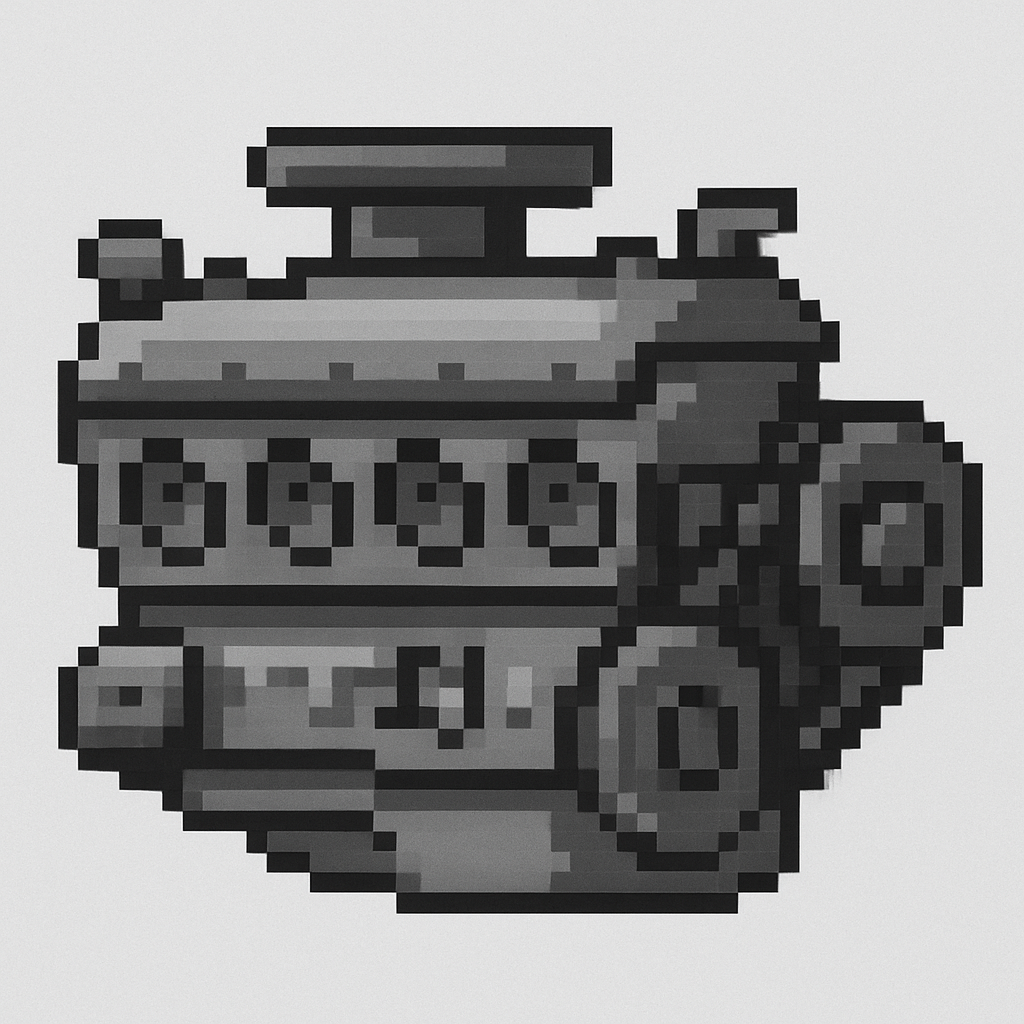
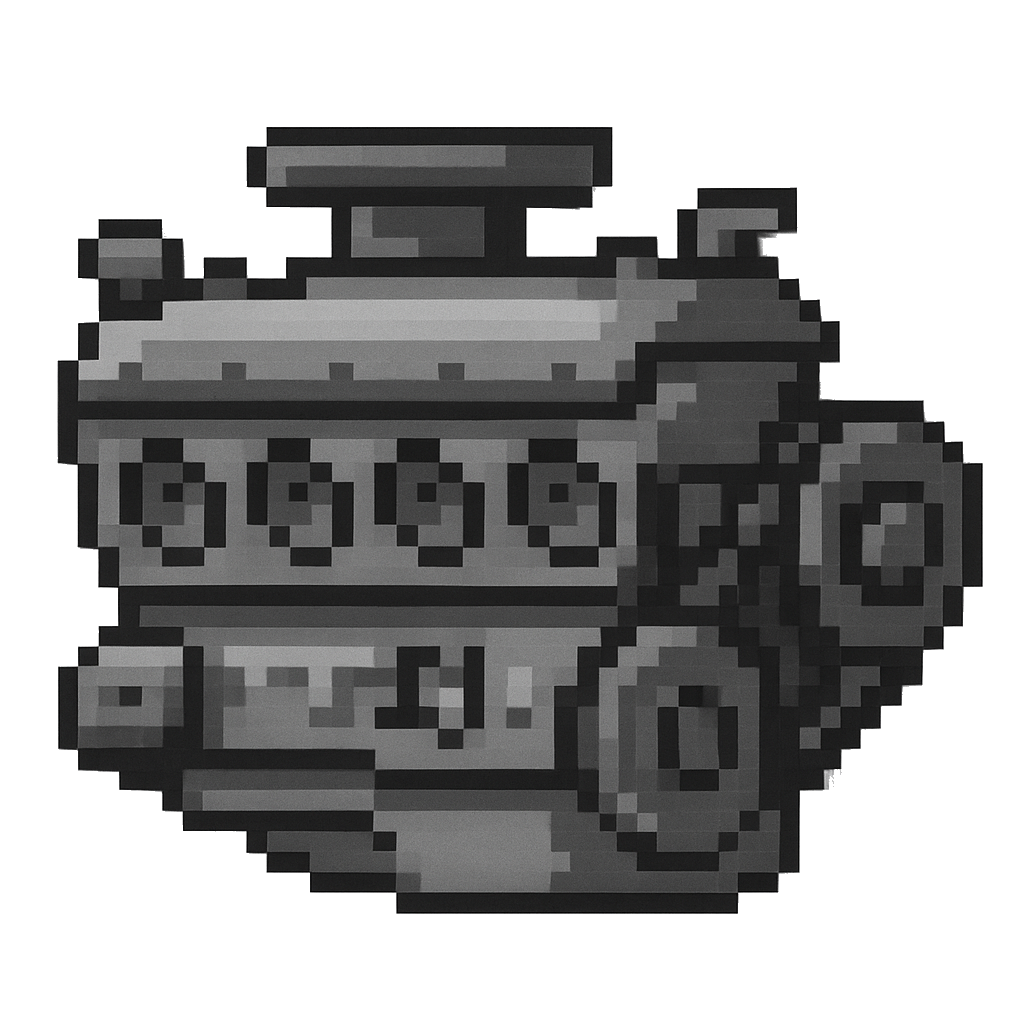
feat: added apparatus panel

diff --git a/core/src/com/titaniumPolitics/game/ui/actions/RepairUI.kt b/core/src/com/titaniumPolitics/game/ui/actions/RepairUI.kt
@@ -39,19 +39,8 @@ class RepairUI(val gameState: GameState, actionCallback: (GameAction) -> Unit) :
     var action =
         Repair(sbjChar.name, sbjChar.place.name, gameState.places[tgtPlace]!!.apparatuses.first().ID, gameState)
 
-    private var agendaSelectBox: Table
-    private val noSuitableAppLabel = table {
-        label("No suitable apparatus to repair.", "docTitle") {
-            it.fill()
-            setAlignment(Align.center)
-            setFontScale(0.5f)
-        }
-        row()
-        label("Make sure there is an apparatus that is damaged and you have the information of it.", "description") {
-            it.fill()
-            setAlignment(Align.center)
-            setFontScale(0.3f)
-        }
+    private val agendaSelectBox = ApparatusSelectUI(gameState) {
+        selectedApp = it
     }
     val apparatusDetailTable = scene2d.table {
 
@@ -91,19 +80,9 @@ class RepairUI(val gameState: GameState, actionCallback: (GameAction) -> Unit) :
 
 
     }
-    val sp: ScrollPane
     val st = scene2d.stack {
         table {
-            stack {
-                it.size(900f, 400f)
-                this@RepairUI.sp = scrollPane {
-                    setScrollingDisabled(false, true)
-                    this@RepairUI.agendaSelectBox =
-
-                        buttonGroup(1, 1)
-                }
-                add(this@RepairUI.noSuitableAppLabel)
-            }
+            add(this@RepairUI.agendaSelectBox)
 
             row()
             //Fill in agenda details.
@@ -140,57 +119,7 @@ class RepairUI(val gameState: GameState, actionCallback: (GameAction) -> Unit) :
 
 
     fun refresh(gameState: GameState) {
-        agendaSelectBox.clear()
-        refreshAvailableApparatusList(gameState)
-    }
-
-    fun refreshAvailableApparatusList(gameState: GameState) {
-        val tgtPlaceObj = gameState.places[tgtPlace]!!
-        tgtPlaceObj.apparatuses.forEach { app ->
-            gameState.informations.values.firstOrNull {
-                it.type == InformationType.APPARATUS
-                it.tgtApparatusID == app.ID && gameState.playerName in it.knownTo
-            }?.also { appInfo ->
-                val t = scene2d.button("check") {
-                    //TODO:Agenda Tooltip addListener(ActionTooltipUI(tobj))
-                    container {
-                        it.size(400f)
-                        it.fill()
-                        it.align(Align.center)
-                        image("CogGrunge") {
-                            try {
-                                drawable = TextureRegionDrawable(
-                                    CapsuleStage.Companion.instance.assetManager.get( //TODO: Temporary solution for portrait image loading. PortraitUI does not have a stage.
-                                        ReadOnly.appJson[app.name]!!.jsonObject["image"]!!.jsonPrimitive.content,
-                                        Texture::class.java
-                                    )!!
-                                )
-                            } catch (e: Exception) {
-                                Logger.write("Portrait Image Error: ${app.name}", Logger.LogLevel.INFO)
-                            }
-
-                        }
-                    }
-                    row()
-                    add(InformationSourceUI(appInfo)).fill()
-                    addListener(object : ChangeListener() {
-                        override fun changed(event: ChangeEvent?, actor: Actor?) {
-                            this@RepairUI.selectedApp = appInfo
-                        }
-                    })
-
-                }
-                agendaSelectBox.add(t).size(400f).fill()
-            }
-
-        }
-        if (agendaSelectBox.children.size == 0) {
-            sp.isVisible = false
-            noSuitableAppLabel.isVisible = true
-        } else {
-            sp.isVisible = true
-            noSuitableAppLabel.isVisible = false
-        }
+        agendaSelectBox.refresh(gameState.player.place.name)
     }
 
 

diff --git a/core/src/com/titaniumPolitics/game/ui/ApparatusPanelUI.kt b/core/src/com/titaniumPolitics/game/ui/ApparatusPanelUI.kt
@@ -1,0 +1,94 @@
+package com.titaniumPolitics.game.ui
+
+import com.badlogic.gdx.graphics.Color
+import com.badlogic.gdx.graphics.Texture
+import com.badlogic.gdx.scenes.scene2d.Group
+import com.badlogic.gdx.scenes.scene2d.InputEvent
+import com.badlogic.gdx.scenes.scene2d.actions.Actions
+import com.badlogic.gdx.scenes.scene2d.ui.Button
+import com.badlogic.gdx.scenes.scene2d.ui.Table
+import com.badlogic.gdx.scenes.scene2d.utils.ClickListener
+import com.badlogic.gdx.scenes.scene2d.utils.TextureRegionDrawable
+import com.titaniumPolitics.game.core.Information
+import com.titaniumPolitics.game.core.ReadOnly
+import com.titaniumPolitics.game.debugTools.Logger
+import com.titaniumPolitics.game.ui.widget.InformationSourceUI
+import com.titaniumPolitics.game.ui.widget.MeterUI
+import kotlinx.serialization.json.jsonObject
+import kotlinx.serialization.json.jsonPrimitive
+import ktx.scene2d.*
+
+class ApparatusPanelUI(var info: Information) : Button(Scene2DSkin.defaultSkin), KTable {
+
+    init {
+        stack {
+            it.grow()
+            image("GradientBottom") {
+                color = Color.BLACK
+            }
+            image("BackgroundNoiseHD")
+
+
+            table {
+                image("CogGrunge") {
+                    it.size(150f).fill()
+                    try {
+                        drawable = TextureRegionDrawable(
+                            CapsuleStage.Companion.instance.assetManager.get( //TODO: Temporary solution for portrait image loading. PortraitUI does not have a stage.
+                                ReadOnly.appJson[this@ApparatusPanelUI.info.tgtApparatusName!!]!!.jsonObject["image"]!!.jsonPrimitive.content,
+                                Texture::class.java
+                            )!!
+                        )
+                    } catch (e: Exception) {
+                        Logger.write(
+                            "Portrait Image Error: ${this@ApparatusPanelUI.info.tgtApparatusName!!}",
+                            Logger.LogLevel.INFO
+                        )
+                    }
+                }
+                table {
+                    it.growX().fillY()
+                    label(ReadOnly.appProp(this@ApparatusPanelUI.info.tgtApparatusName!!), "docTitle") {
+                        setFontScale(0.4f)
+                    }
+                    row()
+                    container(MeterUI().apply {
+                        setValue((this@ApparatusPanelUI.info.variables["durability"]!! / 100.0).toFloat())
+                        color = Color.GREEN
+                    }) {
+                        it.growX().fillY()
+                        padTop(5f)
+                        size(200f, 20f)
+                        fill()
+                    }
+                    row()
+                    container(MeterUI().apply {
+                        setValue((this@ApparatusPanelUI.info.variables["efficiency"]!! / 100.0).toFloat())
+                        color = Color.BLUE
+                    }) {
+                        it.growX().fillY()
+                        padTop(5f)
+                        size(200f, 20f)
+                        fill()
+                    }
+                    row()
+                    label(
+                        "Danger: %.1f %%/100HR".format(this@ApparatusPanelUI.info.variables["danger"]!! * 3600 * 100 * 100/*percent*/),
+                        "docTitle"
+                    ) {
+                        it.growX().fillY()
+                        setFontScale(0.2f)
+                        if (this@ApparatusPanelUI.info.variables["danger"]!! * 3600 * 100 * 100 > 1)
+                            color = Color.RED
+                        else
+                            color = Color.WHITE
+                    }
+                    row()
+                    add(InformationSourceUI(this@ApparatusPanelUI.info)).growX().fillY()
+                }
+            }
+        }
+    }
+
+
+}

diff --git a/core/src/com/titaniumPolitics/game/ui/actions/ApparatusSelectUI.kt b/core/src/com/titaniumPolitics/game/ui/actions/ApparatusSelectUI.kt
@@ -1,0 +1,99 @@
+package com.titaniumPolitics.game.ui.actions
+
+
+import com.badlogic.gdx.graphics.Texture
+import com.badlogic.gdx.scenes.scene2d.Actor
+import com.badlogic.gdx.scenes.scene2d.ui.ScrollPane
+import com.badlogic.gdx.scenes.scene2d.ui.Stack
+import com.badlogic.gdx.scenes.scene2d.ui.Table
+import com.badlogic.gdx.scenes.scene2d.utils.ChangeListener
+import com.badlogic.gdx.scenes.scene2d.utils.TextureRegionDrawable
+import com.badlogic.gdx.utils.Align
+import com.titaniumPolitics.game.core.*
+import com.titaniumPolitics.game.debugTools.Logger
+import com.titaniumPolitics.game.ui.ApparatusPanelUI
+import com.titaniumPolitics.game.ui.CapsuleStage
+import com.titaniumPolitics.game.ui.widget.InformationSourceUI
+import kotlinx.serialization.json.jsonObject
+import kotlinx.serialization.json.jsonPrimitive
+import ktx.scene2d.*
+
+
+class ApparatusSelectUI(val gameState: GameState, val callback: (Information) -> Unit) :
+    Table(Scene2DSkin.defaultSkin), KTable {
+    var selectedApp: Information? = null
+        set(value) {
+            if (value == null) throw Exception("")
+            field = value
+            callback(value)
+        }
+    private var appSelectBox: Table
+    private val noSuitableAppLabel = table {
+        label("No suitable apparatus to repair.", "docTitle") {
+            it.fill()
+            setAlignment(Align.center)
+            setFontScale(0.5f)
+        }
+        row()
+        label("Make sure there is an apparatus that is damaged and you have the information of it.", "description") {
+            it.fill()
+            setAlignment(Align.center)
+            setFontScale(0.3f)
+        }
+    }
+    val sp: ScrollPane
+    val st = stack {
+        it.grow()
+        table {
+            stack {
+                it.size(900f, 400f)
+                this@ApparatusSelectUI.sp = scrollPane {
+                    setScrollingDisabled(false, true)
+                    this@ApparatusSelectUI.appSelectBox =
+
+                        buttonGroup(1, 1)
+                }
+                add(this@ApparatusSelectUI.noSuitableAppLabel)
+            }
+
+        }
+    }
+
+
+    fun refresh(tgtPlace: String) {
+        appSelectBox.clear()
+        refreshAvailableApparatusList(tgtPlace)
+    }
+
+    fun refreshAvailableApparatusList(tgtPlace: String) {
+        val tgtPlaceObj = gameState.places[tgtPlace]!!
+        tgtPlaceObj.apparatuses.forEach { app ->
+            gameState.informations.values.firstOrNull {
+                it.type == InformationType.APPARATUS
+                it.tgtApparatusID == app.ID && gameState.playerName in it.knownTo
+            }?.also { appInfo ->
+                val t = ApparatusPanelUI(appInfo)
+                if (appSelectBox.hasChildren())
+                    appSelectBox.row()
+                appSelectBox.add(t).size(400f, 150f).fill()
+                t.addListener(object : ChangeListener() {
+                    override fun changed(event: ChangeEvent?, actor: Actor?) {
+                        selectedApp = appInfo
+                    }
+                }
+
+                )
+            }
+
+        }
+        if (appSelectBox.children.size == 0) {
+            sp.isVisible = false
+            noSuitableAppLabel.isVisible = true
+        } else {
+            sp.isVisible = true
+            noSuitableAppLabel.isVisible = false
+        }
+    }
+
+
+}

diff --git a/core/src/com/titaniumPolitics/game/ui/PoliticiansInfoUI.kt b/core/src/com/titaniumPolitics/game/ui/PoliticiansInfoUI.kt
@@ -10,6 +10,7 @@ import com.titaniumPolitics.game.core.Character
 import com.titaniumPolitics.game.core.GameState
 import com.titaniumPolitics.game.core.Party
 import com.titaniumPolitics.game.core.ReadOnly
+import com.titaniumPolitics.game.ui.actions.ApparatusSelectUI
 import com.titaniumPolitics.game.ui.widget.BudgetDisplayUI
 import com.titaniumPolitics.game.ui.widget.ResourceDisplayUI
 import com.titaniumPolitics.game.ui.widget.TitleLabel
@@ -447,48 +448,11 @@ class PoliticiansInfoUI(val gameState: GameState) : Table(defaultSkin), KTable {
                             it.fill().left()
                         }
                         row()
-                        scrollPane {
-                            it.fill()
-                            table {
-                                defaults().pad(5f)
-                                label(ReadOnly.prop("PoliticiansInfoUI-Apparatus"), "docTitle") {
-                                    setFontScale(0.3f)
-                                    setAlignment(Align.left)
-                                    it.fill().left()
-                                }
-                                label(
-                                    ReadOnly.prop("PoliticiansInfoUI-CurrentEfficiency"),
-                                    "docTitle"
-                                ) {
-                                    setFontScale(0.3f)
-                                    setAlignment(Align.left)
-                                    it.fill().left()
-                                }
-                                label(ReadOnly.prop("durability"), "docTitle") {
-                                    setFontScale(0.3f)
-                                    setAlignment(Align.left)
-                                    it.fill().left()
-                                }
-                                workplaceParty.workplace.apparatuses.forEach { app ->
-                                    row()
-                                    label(ReadOnly.appProp(app.name), "docTitle") {
-                                        setFontScale(0.4f)
-                                        setAlignment(Align.left)
-                                        it.fill().left()
-                                    }
-                                    label("%.1f %%".format(app.netEfficiency * 100.0), "docTitle") {
-                                        setFontScale(0.4f)
-                                        setAlignment(Align.left)
-                                        it.fill().left()
-                                    }
-                                    label("%.1f %%".format(app.durability), "docTitle") {
-                                        setFontScale(0.4f)
-                                        setAlignment(Align.left)
-                                        it.fill().left()
-                                    }
-                                }
-                            }
-                        }
+                        add(ApparatusSelectUI(this@PoliticiansInfoUI.gameState) {
+                            ApparatusInfoUI.instance.refresh(it)
+                        }.also {
+                            it.refresh(workplaceParty.workplace.name)
+                        }).fill()
                     }
                 }
             }

diff --git a/core/src/com/titaniumPolitics/game/core/Apparatus.kt b/core/src/com/titaniumPolitics/game/core/Apparatus.kt
@@ -177,6 +177,10 @@ class Apparatus {
         get() = idealDistribution * netEfficiency + Resources("ration" to currentWages, "water" to currentWages)
     val currentHeatProduction: Double
         get() = idealHeatProduction * netEfficiency + currentWorker * const("WorkingHumanHeatProduction")
+
+    /**
+     * Current accident danger of this apparatus. Unit: 1/second.
+     */
     val currentDanger: Double
         get() {
             return if (currentWorker == 0 || idealWorker == 0) 0.0 else if (durability == .0) 0.0 else {
@@ -186,6 +190,10 @@ class Apparatus {
                     baseDanger * (2 * currentWorker / idealWorker - 1) * 100 / durability / const("GlobalAccidentTau") * damageTempScale//Danger increases when overcrewed or undercrewed.
             }
         }
+
+    /**
+     * Current catastrophic accident danger of this apparatus. Unit: 1/second.
+     */
     val currentGraveDanger: Double
         get() {
             return if (currentWorker == 0 || idealWorker == 0) 0.0
